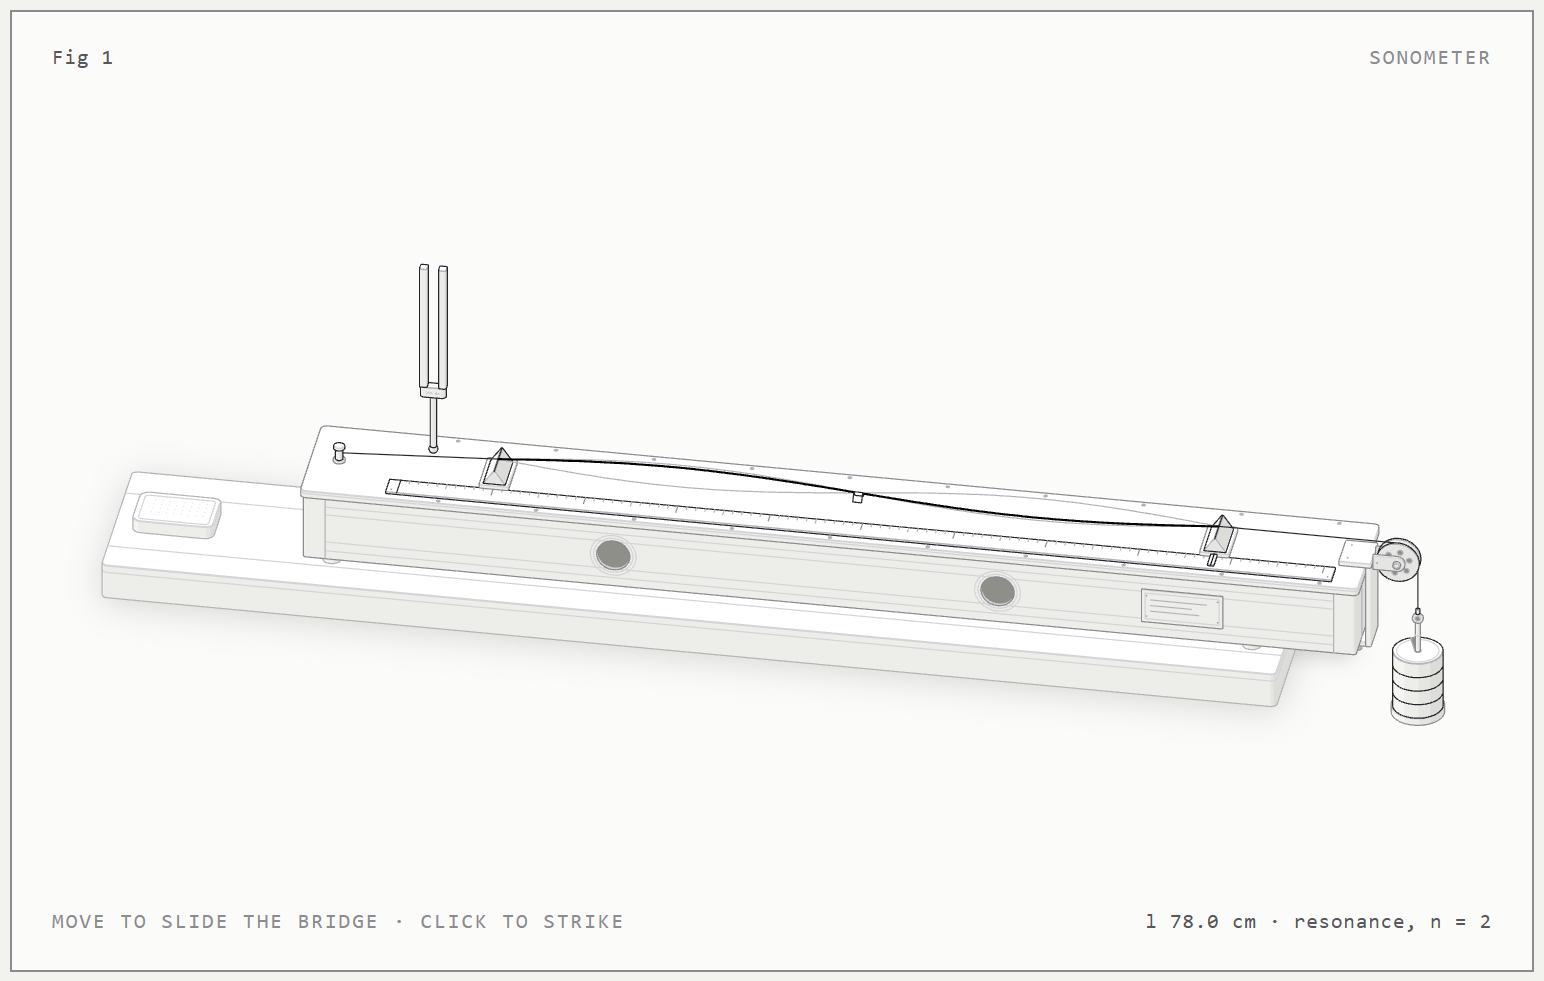
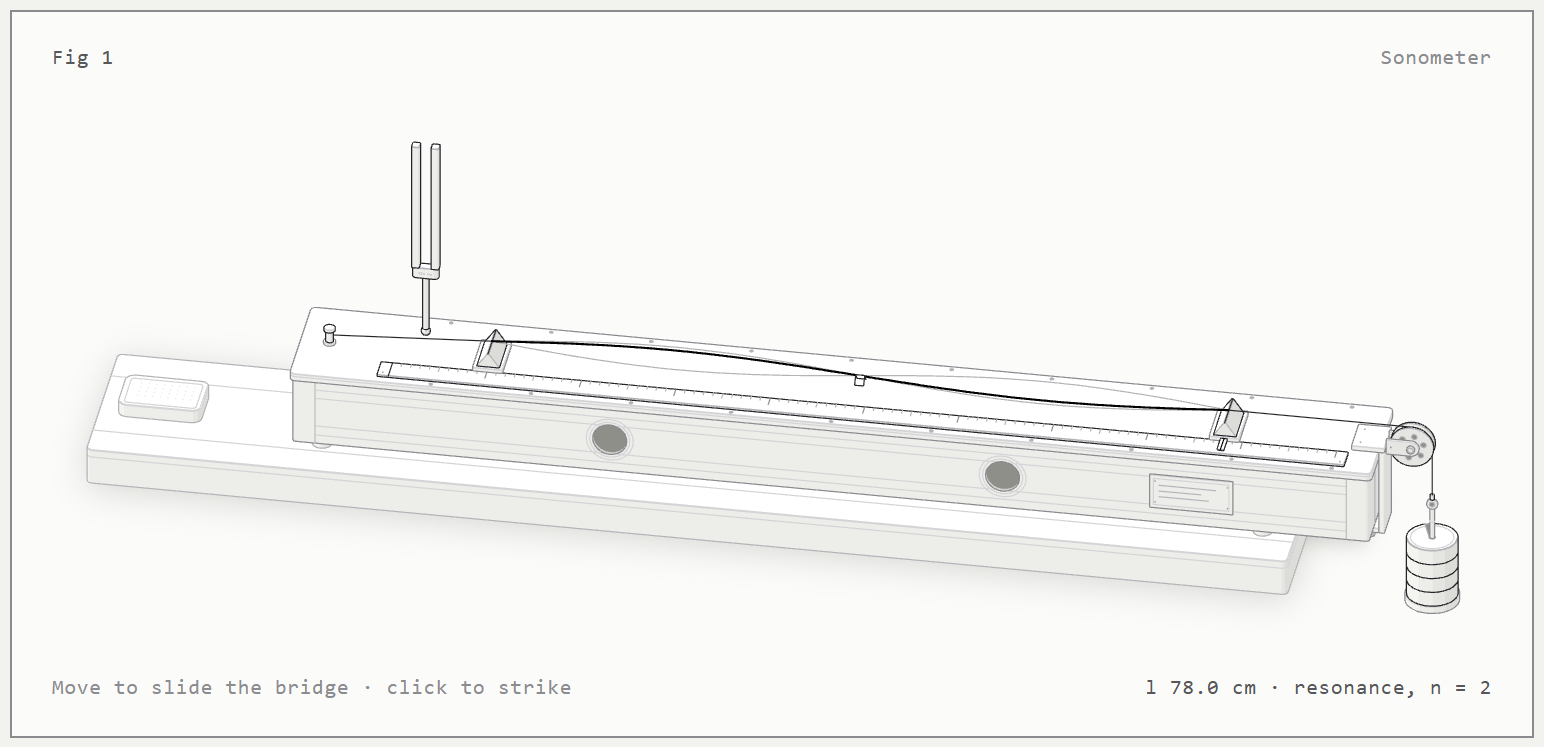
fix(apparatus): sonometer card in sentence case, and sized so the apparatus fills it
The title and hint corners override the kit's upper case in sonometer.css. The card's height
is now the drawing's own extent at the card's width (275 instead of 400), so the box no longer
sits under an empty band. Audit passed; line check 0 in both themes. Proof screenshots retaken.

diff --git a/packages/apparatus/figures/sonometer/sonometer.css b/packages/apparatus/figures/sonometer/sonometer.css
@@ -102,3 +102,10 @@
 .sn-svg[data-pick] .iso-halo {
   opacity: 0.08;
 }
+
+/* the kit's title and hint corners are upper case; the site's rule is sentence case */
+.iso-plate-corner[data-corner="title"],
+.iso-plate-corner[data-corner="hint"] {
+  text-transform: none;
+  letter-spacing: 0.04em;
+}
